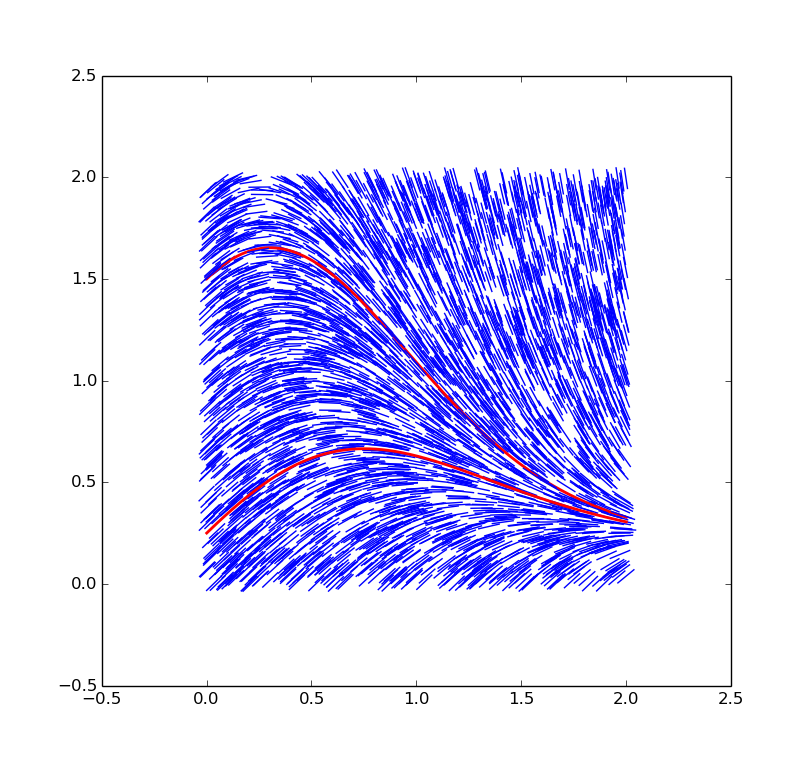
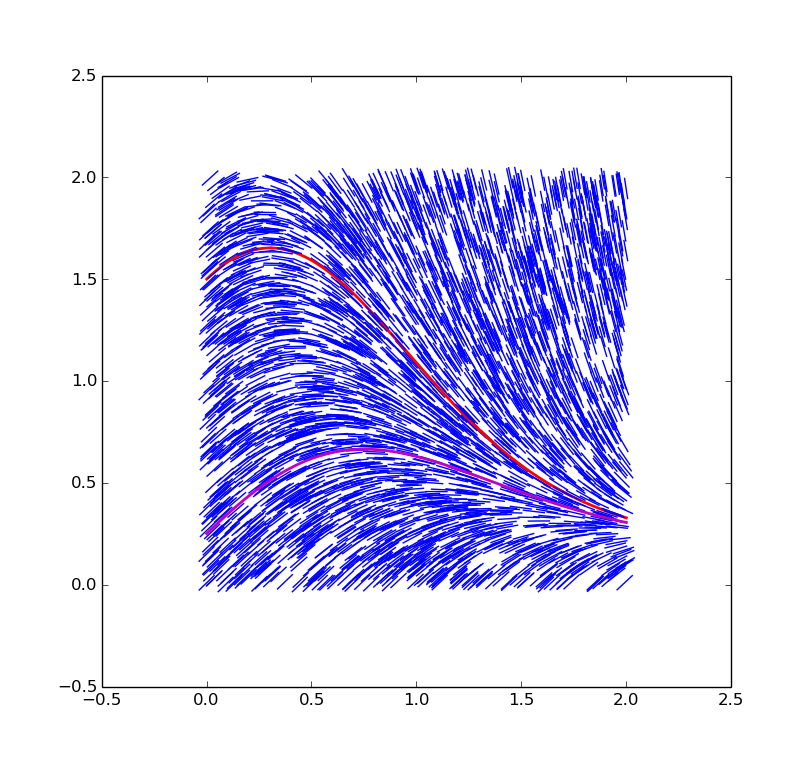
changed image and report update

diff --git a/ass2/docs/report.tex b/ass2/docs/report.tex
@@ -120,6 +120,7 @@
 \subsection{Sobel operator}
 
 
+\clearpage
 \section{Slope Fields}
 \subsection{Slope and random fields}
 
@@ -138,13 +139,41 @@ desired line length and $s$ is the slope. Then $\Delta t$ is found by simply
 $\Delta t= \sqrt{c^2-\Delta y^2}$
 
 In case of the structured slope field we plotted a total of 100 slope lines on
-the interval $(0,2)$ in both the $t$ and $y$ directions.
+the interval $(0,2)$ in both the $t$ and $y$ directions as shown in the image
+below.
+\begin{center}
+    \includegraphics[width=\textwidth]{slopefield}
+\end{center}
 
 For the random slope field two random numbers are generated, one for the
 $t$-coordinate and one for the $y$-coordinate. This is repeated a total of 2000
-times to create the field.
+times to create the field as shown in the image below.
+\begin{center}
+    \includegraphics[width=\textwidth]{randomfield}
+\end{center}
 
 \subsection{Euler approximation}
+
+For the Euler approximation a program had to be written that approximates the
+graph of a function using the Euler method. This method does a certain amount of
+steps over a certain interval and each time calculates how much has to be added
+to the value of the previous step to get the value for this step.
+$y_{k+1}=y_k+h*\varphi (t_k,y_k)$ where $y_k$ is the function value of the
+previous step, $h$ is the step width and $t_k$ is the $t$ value of the  this
+step. After calculating the new $y$ value the new $t$ value is produced by
+$t_{k+1} = t_k + h$.
+
+When repeating this process 2000 times on the interval $(0,2)$ for $\varphi(t,
+y) = 1-2ty$ with begin values $y(0) = 1.5$ (in red) and $y(0) = 0.25$ (in
+purple) it creates the function approximation shown in the figure below.
+
+\begin{center}
+    \includegraphics[width=\textwidth]{euler1}
+\end{center}
+\captionof{figure}{Shows a random slope field with the corresponding Euler
+approximation of the graph. Using $y(0) = 1.5$ in red and $y(0) = 0.25$ in
+purple.}
+
 
 
 % =================================== REFERENCES ===================================
